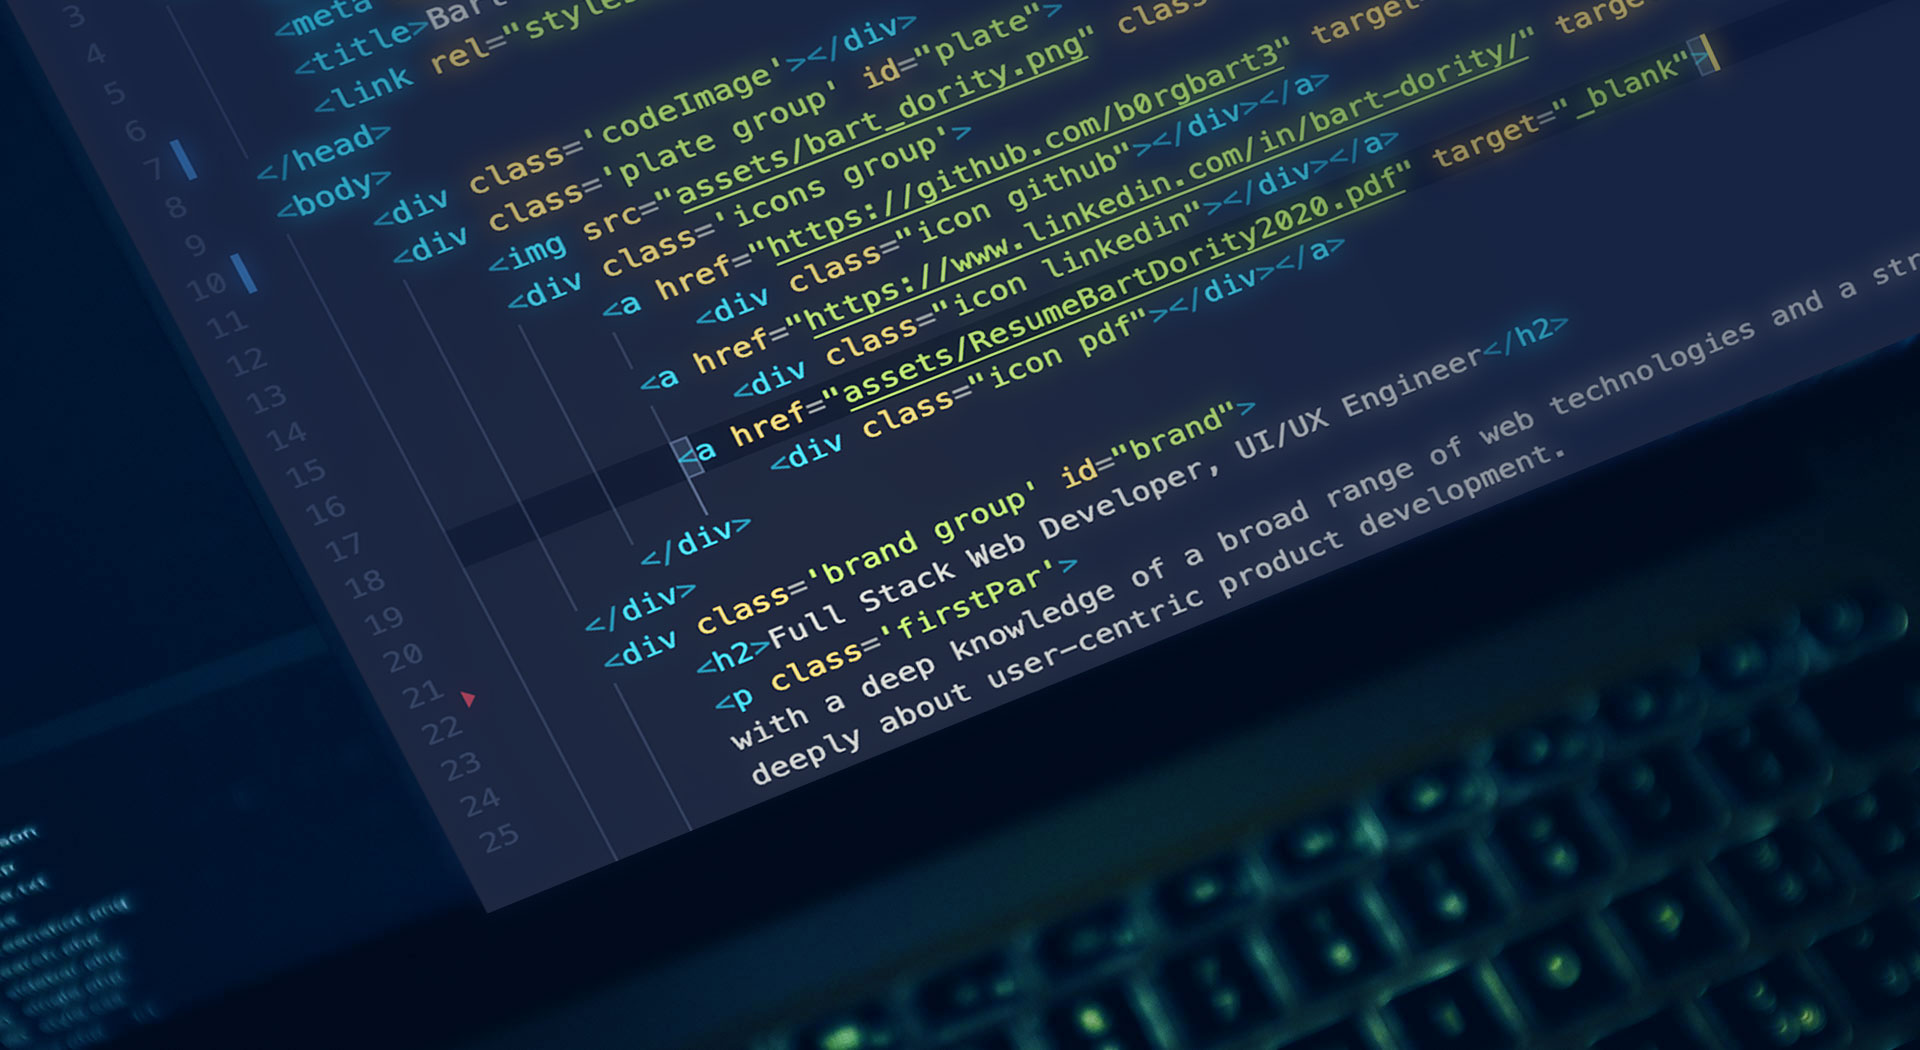
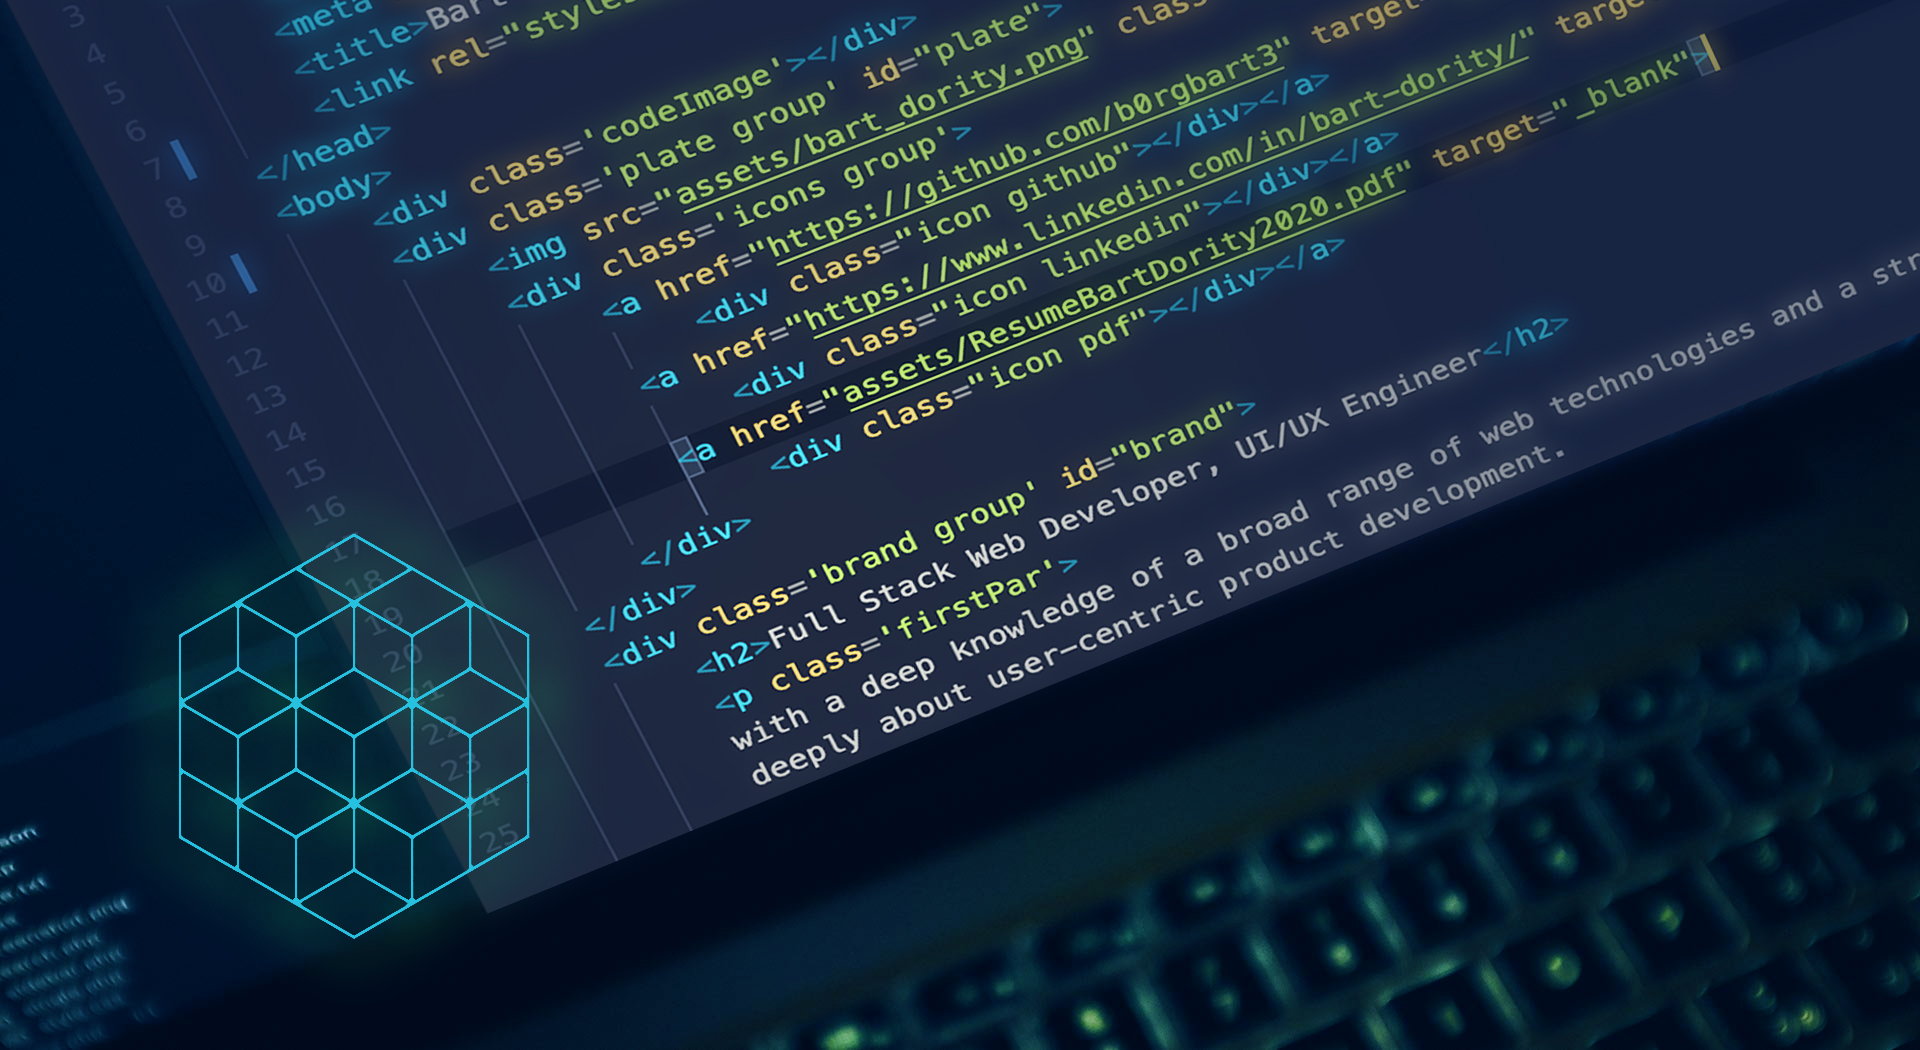
adding to branding image and adjusting color styling

Changed region(s): [[0.0938, 0.7314, 0.2812, 0.8838], [0.0938, 0.64, 0.2812, 0.701], [0.0938, 0.5181, 0.2812, 0.6095]]

diff --git a/index.html b/index.html
@@ -40,7 +40,7 @@
                 <p>Utilizes the power of the NASA image bank API, and cross referencing them with articles from Wikipedia -- this app allows users to search through photographs and find out more about these scientific topics in a visual manner.</p>
                 <div class="links">
                     <a href="https://b0rgbart3.github.io/project-one/" class='live'>Live Demo</a>
-                    <a href="https://github.com/b0rgbart3/project-one" class='live'>github repo</a>
+                    <a href="https://github.com/b0rgbart3/project-one" class='live githubLink'>github repo</a>
                 </div>
         </div>
         </div>
@@ -51,7 +51,7 @@
                 <p>This app pulls live weather and forecast data from Open-Weather-Map.org's API.  It allows users to view the weather and get a 5 day forecast in multiple cities, to help better plan their trips.</p>
                 <div class="links">
                     <a href="https://b0rgbart3.github.io/weather-dashboard/" class='live'>Live Demo</a>
-                    <a href="https://github.com/b0rgbart3/weather-dashboard" class='live'>github repo</a>
+                    <a href="https://github.com/b0rgbart3/weather-dashboard" class='live githubLink'>github repo</a>
                 </div>
             </div>
         </div>
@@ -62,7 +62,7 @@
                 <p>This app sets up a simple set of quiz questions and allows users to store their high scores to compare and compete against their peers.</p>
                 <div class="links">
                     <a href="https://b0rgbart3.github.io/code-quiz2/" class='live'>Live Demo</a>
-                    <a href="https://github.com/b0rgbart3/code-quiz2" class="live">github repo</a>
+                    <a href="https://github.com/b0rgbart3/code-quiz2" class="live githubLink">github repo</a>
                 </div>
             
             </div>

diff --git a/style.css b/style.css
@@ -56,6 +56,7 @@ p {
 .codeImage {
     background-image:url("assets/code3.jpg");
     background-size:100%;
+    background-position: 50% 50%;
     width:100%;
     height:200px;
 }
@@ -189,6 +190,10 @@ h2 {
     font-weight: 400;
     user-select: none;
     cursor: pointer;
+}
+
+.githubLink {
+    background-color:#80c01f;
 }
 /* .live::before {
     content:"| ";
